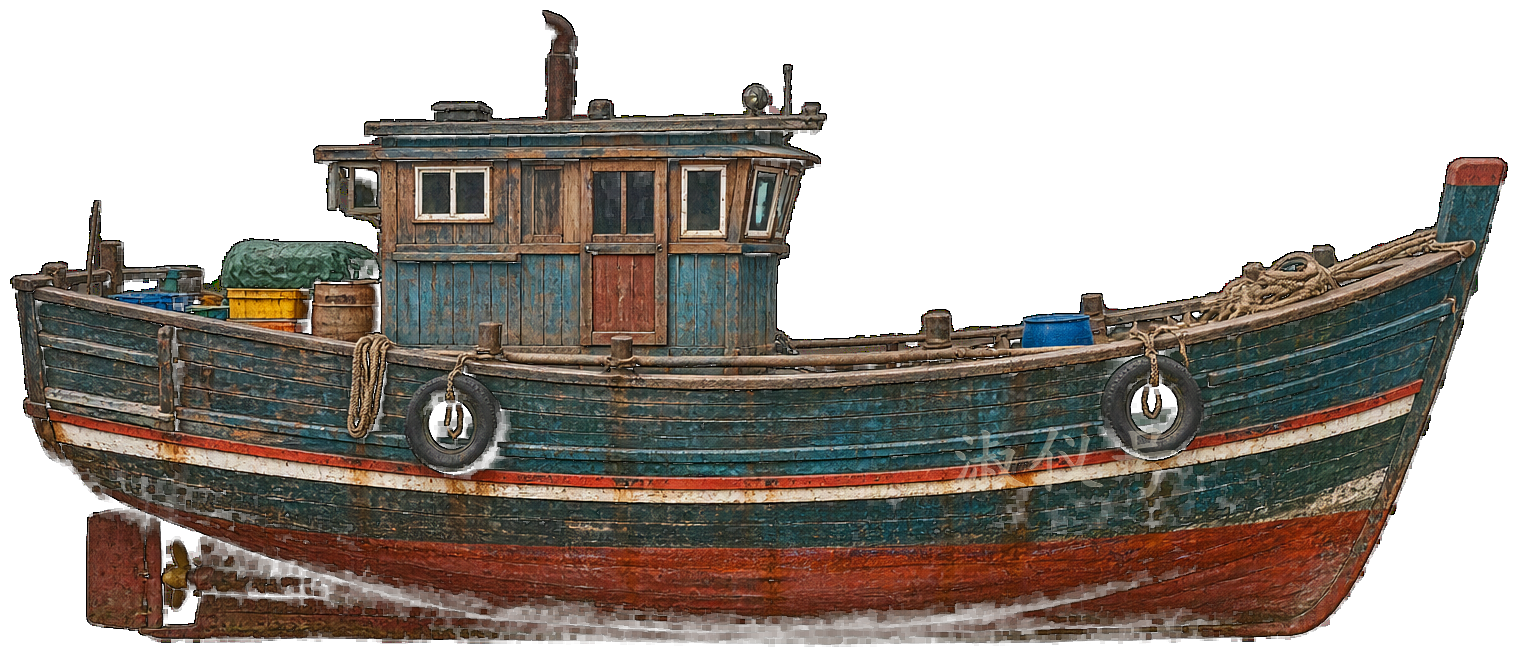
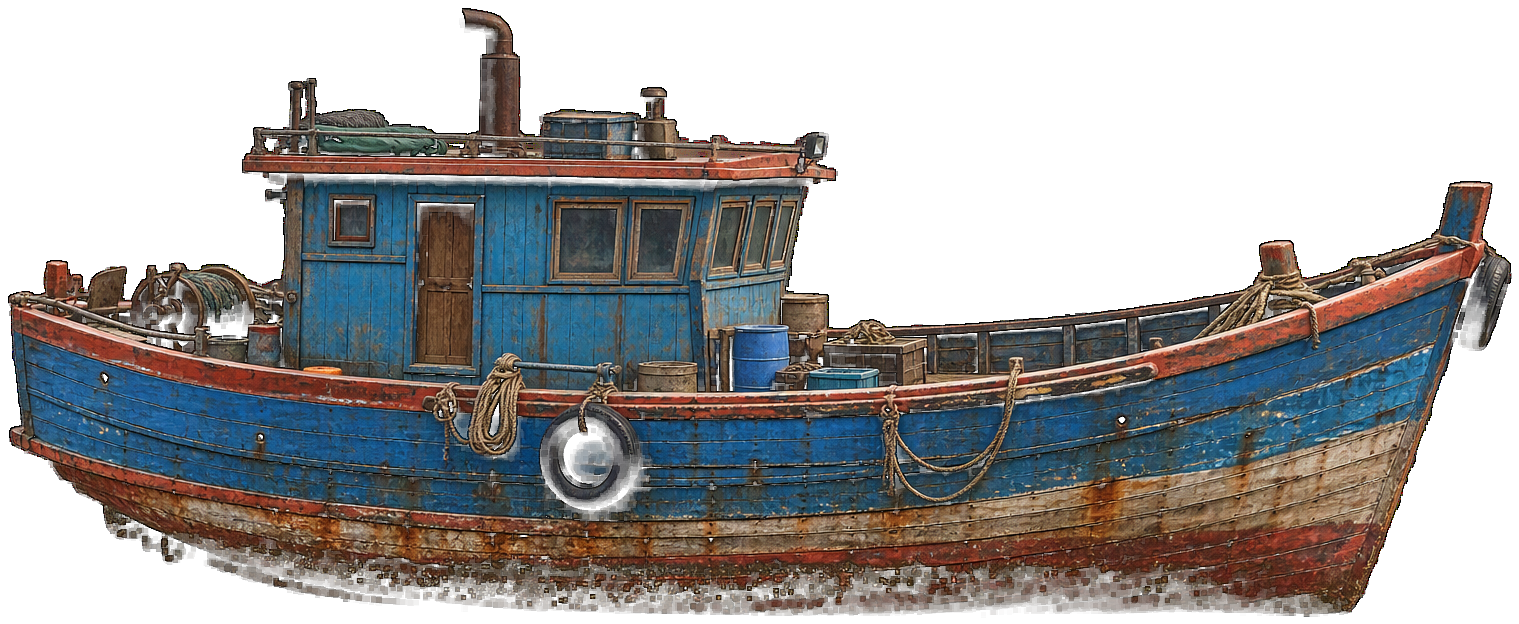
去船身题字：旧船回退原图、修复船重新生成无字版；新增人物卡与对白说话人标注；修正台风眼船滤镜

diff --git a/src/main.js b/src/main.js
@@ -8,25 +8,34 @@ const scenes = [
     [4.2, '疍家人祖祖辈辈，生在船上，死在浪里。'],
     [7.6, '这是四代女人，和一艘船的故事。'],
   ]},
+  { id: 'sc-cast', card: 1, dur: 9, subs: [], cast: [
+    ['淑 仪', '家姐 · 船以她命名'],
+    ['淑 珍', '外婆 · 疍家医生'],
+    ['月 娥', '太婆 · 淑珍的母亲'],
+    ['李 泰', '外公 · 公安干警'],
+    ['秀 胧', '疍家女 · 外婆一生的「老伴」'],
+    ['忠桦 · 志谦 · 奕得', '大姨 · 妈妈 · 三姨'],
+    ['武 岳', '我 · 讲故事的人'],
+  ]},
   { id: 'ep1', card: 1, ep: '第一集', name: '莫道辛烈皆过口，蚀骨方知痛生鳞', dur: 5, subs: [] },
   { id: 'sc-paris', dur: 16, subs: [
     [0.8, '巴黎，老佛爷，珠宝柜台后。我在本子上涂着小漫画。'],
     [5.0, '电话响了。是妈妈。'],
-    [8.6, '“外婆被那条船吃了。”', 'd'],
+    [8.6, '妈妈·志谦｜“外婆被那条船吃了。”', 'd'],
     [12.2, '飞机、高铁、大巴，我赶回了那座闷热的海滨小城。'],
   ]},
   { id: 'sc-raid', dur: 18, subs: [
     [0.8, '1944年，防空警报划过城市上空。'],
-    [4.6, '五岁的淑珍坐在树上。'],
-    [6.6, '“不怕，飞机还没来呢。”', 'd'],
-    [9.8, '父亲把一句口信压进她的小手：明晚子时落大潮，地角码头接货。'],
-    [13.8, '港口桅杆如林。一个疍家女钻出水面——'],
-    [15.8, '“跟我来！”', 'd'],
+    [4.6, '五岁的淑珍（外婆小时候）坐在树上。'],
+    [6.6, '小淑珍｜“不怕，飞机还没来呢。”', 'd'],
+    [9.8, '父亲邓公把一句口信压进她的小手：明晚子时落大潮，地角码头接货。'],
+    [13.8, '港口桅杆如林。疍家女秀胧钻出水面——'],
+    [15.8, '疍家女·秀胧｜“跟我来！”', 'd'],
   ]},
   { id: 'sc-stele', dur: 14, subs: [
     [0.8, '1945年，抗战胜利纪念碑亭落成。'],
-    [5.0, '邓公拉着七岁的淑珍，在碑亭前合影。'],
-    [9.2, '“淑珍，你也是撑起这座碑亭的一颗小石子。”', 'd'],
+    [5.0, '父亲邓公拉着七岁的淑珍，在碑亭前合影。'],
+    [9.2, '父亲·邓公｜“淑珍，你也是撑起这座碑亭的一颗小石子。”', 'd'],
   ]},
   { id: 'ep2', card: 1, ep: '第二集', name: '一纸决绝辞旧骨，愿凭辛温获重生', dur: 5, subs: [] },
   { id: 'sc-sister', dur: 22, subs: [
@@ -35,25 +44,25 @@ const scenes = [
     [9.4, '高烧、昏迷。大夫到时，一切都太迟了。'],
     [13.4, '那是淑珍第一次触到人的遗体。'],
     [16.8, '她忽然明白了家姐想当医生的原因——'],
-    [19.2, '“能救人呀。”', 'd'],
+    [19.2, '家姐·淑仪｜“能救人呀。”', 'd'],
   ]},
   { id: 'sc-boat', dur: 18, subs: [
-    [0.8, '深夜，月娥倒出樟木盒里全部的首饰。'],
+    [0.8, '深夜，母亲月娥倒出樟木盒里全部的首饰。'],
     [4.6, '一纸离婚契书，换回一艘旧木船。'],
-    [8.6, '“家姐，往后这里就是我们新家了。”', 'd'],
+    [8.6, '淑珍｜“家姐，往后这里就是我们新家了。”', 'd'],
     [12.4, '她用锅底灰调了油，在船头写下三个字——'],
     [15.2, '淑 仪 号', 'v'],
   ]},
   { id: 'sc-typhoon', dur: 16, subs: [
-    [0.8, '“鱼起水，台风嘴。”', 'd'],
+    [0.8, '疍家谚语｜“鱼起水，台风嘴。”', 'd'],
     [4.4, '贪兜沙钻鱼的淑珍，直直撞进了台风嘴。'],
     [8.4, '浪头几乎把船拍散。是大眼鸡他们把她拖回了内港。'],
     [12.6, '那一夜，母女俩相拥缩在船舱里，身下垫着潮湿的草席。'],
   ]},
   { id: 'sc-song', dur: 26, subs: [
     [0.8, '药嫲说，傍晚上甲板唱的那支歌，叫「叹家姐」。'],
-    [5.2, '“妹仔多是家姐带大的，同睡一舱，同补一网。”', 'd'],
-    [10.0, '“家姐一旦出嫁、被卖、落海、病死……妹仔也就成了家姐。”', 'd'],
+    [5.2, '药嫲｜“妹仔多是家姐带大的，同睡一舱，同补一网。”', 'd'],
+    [10.0, '药嫲｜“家姐一旦出嫁、被卖、落海、病死……妹仔也就成了家姐。”', 'd'],
     [14.6, '一尾青丝两处分，姐先跌落暗潮深。', 'v'],
     [19.4, '莫怪阿妹泪眼涩，哭姐即是哭自身。', 'v'],
   ]},
@@ -61,14 +70,14 @@ const scenes = [
   { id: 'sc-hospital', dur: 20, subs: [
     [0.8, '1956年，麻风病院里，淑珍重逢了当年被指婚卖掉的秀胧。'],
     [5.4, '一锅海榄树皮煮的药水，拔出了病人疮底的腐毒。'],
-    [10.0, '石灰警戒线那头，李泰抛来医书和鱼干。'],
-    [14.6, '“原想着能常碰面，谁知只能隔着石灰粉当牛郎织女。”', 'd'],
+    [10.0, '石灰警戒线那头，公安干警李泰抛来医书和鱼干。'],
+    [14.6, '李泰｜“原想着能常碰面，谁知只能隔着石灰粉当牛郎织女。”', 'd'],
   ]},
   { id: 'ep4', card: 1, ep: '第四集', name: '以苦坚阴心相印，稚女盲行搅暗涡', dur: 5, subs: [] },
   { id: 'sc-wedding', dur: 16, subs: [
     [0.8, '一纸结婚批准报告折成纸飞机，落在退潮的滩涂上。'],
     [5.0, '疍家水上婚礼。淑仪号挂了红，唱起了叹家姐。'],
-    [9.4, '“你要是不后悔——就再捞我一次。”', 'd'],
+    [9.4, '李泰｜“你要是不后悔——就再捞我一次。”', 'd'],
     [13.0, '这句话，外婆记了一辈子，也捞了一辈子。'],
   ]},
   { id: 'ep5', card: 1, ep: '第五集', name: '酸收固脱争生死，万顷狂澜不渡人', dur: 5, subs: [] },
@@ -82,9 +91,9 @@ const scenes = [
   { id: 'ep6', card: 1, ep: '第六集', name: '酸甘化阴滋寸草，双及微茫念故魂', dur: 5, subs: [] },
   { id: 'sc-1977', dur: 16, subs: [
     [0.8, '1977年，恢复高考。'],
-    [4.8, '母女俩同进考场，一盏灯熬了两代人。'],
+    [4.8, '外婆和大女儿忠桦同进考场，一盏灯熬了两代人。'],
     [9.4, '忠桦考上省城；淑珍从医士，考成了医师。'],
-    [12.6, '“我只想她们手里，都握着实打实的本事。”', 'd'],
+    [12.6, '淑珍｜“我只想她们手里，都握着实打实的本事。”', 'd'],
   ]},
   { id: 'ep7', card: 1, ep: '第七集', name: '暗绾双丝葺旧艇，甘缓培元笃始生', dur: 5, subs: [] },
   { id: 'sc-repair', dur: 16, subs: [
@@ -95,7 +104,7 @@ const scenes = [
   ]},
   { id: 'ep8', card: 1, ep: '第八集', name: '天风一遇姤成契，甘润回潮久相逢', dur: 5, subs: [] },
   { id: 'sc-reunion', dur: 16, subs: [
-    [0.8, '九十年代中，秀胧从美国回来了。'],
+    [0.8, '九十年代中，秀胧奶奶从美国回来了。'],
     [5.0, '当年出发的那片滩涂，早已埋在水泥堤坝底下。'],
     [9.6, '直到她看见码头边那艘新修整的淑仪号——'],
     [12.6, '眼睛才重新亮了起来。'],
@@ -103,19 +112,19 @@ const scenes = [
   { id: 'ep9', card: 1, ep: '第九集', name: '咸走重澜化沉疴，契归劫后调船头', dur: 5, subs: [] },
   { id: 'sc-1993', dur: 14, subs: [
     [0.8, '1993年，忠桦欠债十一万五。'],
-    [4.6, '“只要我不死，就把钱赚回来。”', 'd'],
-    [8.8, '老妈没说话，拿着淑仪号的船契去了信用社。'],
+    [4.6, '大姨·忠桦｜“只要我不死，就把钱赚回来。”', 'd'],
+    [8.8, '外婆没说话，拿着淑仪号的船契去了信用社。'],
   ]},
   { id: 'sc-1997', dur: 14, subs: [
-    [0.8, '1997年7月1日夜，李泰穿着旧军装，看完了香港回归直播。'],
+    [0.8, '1997年7月1日夜，外公李泰穿着旧军装，看完了香港回归直播。'],
     [6.2, '一周后，他在家中辞世。'],
     [9.8, '淑珍没有哭，只是常常放空。'],
   ]},
   { id: 'sc-1998', dur: 16, subs: [
     [0.8, '1998年，除夕。'],
-    [3.8, '“今天，十一万五——彻底结清！”', 'd'],
+    [3.8, '大姨·忠桦｜“今天，十一万五——彻底结清！”', 'd'],
     [8.2, '欠条烧成灰。盖着红戳的船契，轻轻推回淑珍手里。'],
-    [12.2, '“这不就是你当年说的——调转船头的底气么？”', 'd'],
+    [12.2, '秀胧｜“这不就是你当年说的——调转船头的底气么？”', 'd'],
   ]},
   { id: 'ep10', card: 1, ep: '第十集', name: '咸润通溟归化境，长风自引破浪刀', dur: 5, subs: [] },
   { id: 'sc-eye', dur: 28, subs: [
@@ -123,16 +132,16 @@ const scenes = [
     [5.2, '无线电里，渔监台说已追踪到我的船——正直直朝台风去。随即断联。'],
     [10.0, '一道巨浪把我抛进了台风圈。再睁眼时，风眼里静得可怕。'],
     [11.8, '外婆坐在对面，翻着一地的老照片。'],
-    [13.2, '“再大的船，硬顶着浪头都要散架。滑进风眼里，才有活路。”', 'd'],
+    [13.2, '外婆｜“再大的船，硬顶着浪头都要散架。滑进风眼里，才有活路。”', 'd'],
     [17.4, '她把那枚宝螺鲸鱼，戴上了我的脖子。'],
-    [20.8, '“顺风顺水啊，武岳。”', 'd'],
+    [20.8, '外婆｜“顺风顺水啊，武岳。”', 'd'],
     [23.6, '外婆拉起我的手，放上舵轮。舵轮忽然转得动了。'],
-    [26.0, '“把船当成游走在台风肋骨间的手术刀。”', 'd'],
+    [26.0, '外婆的话｜“把船当成游走在台风肋骨间的手术刀。”', 'd'],
   ]},
   { id: 'sc-finale', dur: 26, subs: [
     [0.8, '风眼散去，我把船开回了家。后来我才知道——'],
     [5.2, '外婆手机里那个“老伴”，是大洋彼岸的秀胧。'],
-    [9.6, '“我唱支叹家姐给你听，等唱完呢，可能就到啦……”', 'd'],
+    [9.6, '我·武岳｜“我唱支叹家姐给你听，等唱完呢，可能就到啦……”', 'd'],
     [14.0, '海水连天天连水，家姐过洋探路行。', 'v'],
     [17.6, '潮退潮升皆是客，暂借他乡作故乡。', 'v'],
     [21.2, '姐啊莫怕夜色重，循着月影就归家。', 'v'],
@@ -148,9 +157,16 @@ const overlay = $('#start-overlay');
 // 集名卡 section 由 JS 生成，插到颗粒层之前
 scenes.filter(s => s.card).forEach(s => {
   const el = document.createElement('section');
-  el.className = 'scene epcard'; el.id = s.id;
-  const [l1, l2] = s.name.split('，');
-  el.innerHTML = `<div class="epno">${s.ep}</div><div class="epname"><span>${l1}</span>${l2 ? `<span>${l2}</span>` : ''}</div>`;
+  el.id = s.id;
+  if (s.cast) {
+    el.className = 'scene castcard';
+    el.innerHTML = `<div class="casttitle">人 物</div><ul class="castlist">` +
+      s.cast.map(([n, r]) => `<li><b>${n}</b>${r}</li>`).join('') + '</ul>';
+  } else {
+    el.className = 'scene epcard';
+    const [l1, l2] = s.name.split('，');
+    el.innerHTML = `<div class="epno">${s.ep}</div><div class="epname"><span>${l1}</span>${l2 ? `<span>${l2}</span>` : ''}</div>`;
+  }
   stage.insertBefore(el, stage.querySelector('.grain'));
 });
 const ICO_PLAY = '<path d="M7 4l14 8-14 8z"/>', ICO_PAUSE = '<path d="M6 4h4v16H6zM14 4h4v16h-4z"/>';
@@ -228,7 +244,8 @@ function render() {
         sub.classList.add('show');
       } else if (flag === 'd') {
         // 对白：楷体浮现于画面上方，长句在中部标点换行
-        dlg.innerHTML = dlgBreak(text);
+        const sp = text.split('｜');
+        dlg.innerHTML = sp.length === 2 ? `<span class="who">${sp[0]}</span>` + dlgBreak(sp[1]) : dlgBreak(text);
         dlg.classList.add('show');
       } else {
         // 叙述：底部宋体
@@ -293,6 +310,7 @@ const LOOPS = ['sea', 'sing_a', 'piano', 'radio60', 'radio80', 'thunder', 'tvmur
 // 时代音：radio60=五六十年代广播进行曲；radio80=八九十年代电台流行；tvmur=1997电视播报
 const SCENE_AUDIO = {
   'sc-title':    { v: { sea: .5,  sing_a: .5 } },
+  'sc-cast':     { v: { sea: .4,  sing_a: .32 } },
   'ep1':         { v: { sea: .35, sing_a: .3 } },
   'sc-paris':    { v: { sea: .12, piano: .3 }, fx: [[1.2, 'phonering', .5, 6.0]] },
   'sc-raid':     { v: { sea: .15, piano: .22 }, fx: [[1.0, 'siren2', .8]] },

diff --git a/index.html b/index.html
@@ -122,7 +122,7 @@ button{cursor:pointer;font-family:inherit}
 #sc-song .boatpic{width:52%;left:24%;bottom:11%}
 #sc-wedding .boatpic{width:48%;left:26%;bottom:13%}
 #sc-eye .boatpic{width:44%;left:28%;bottom:19%;
-  filter:brightness(.62) saturate(.55) hue-rotate(155deg) drop-shadow(0 8px 16px rgba(0,0,0,.6))}
+  filter:brightness(.68) saturate(.95) drop-shadow(0 8px 16px rgba(0,0,0,.6))}
 #sc-finale .boatpic{width:42%;left:29%;bottom:19%;filter:brightness(.6) sepia(.2)}
 /* ===== 对白字幕：楷体浮现于画面 ===== */
 #dialogue{position:absolute;left:50%;top:24%;transform:translate(-50%,0);z-index:30;
@@ -530,6 +530,24 @@ button{cursor:pointer;font-family:inherit}
 .scene.active .epno{animation:fadeUp 2.4s .3s ease both}
 .scene.active .epname{animation:fadeUp 2.8s .9s ease both}
 
+/* ===== 人物卡 ===== */
+.castcard{display:flex;flex-direction:column;align-items:center;justify-content:center;gap:4%;
+  background:radial-gradient(ellipse at 50% 40%,oklch(0.2 0.045 228),oklch(0.11 0.025 235) 78%)}
+.castcard::after{display:none}
+.casttitle{font-family:"Kaiti SC","STKaiti","KaiTi",serif;font-size:clamp(12px,1.5vw,18px);
+  letter-spacing:.6em;padding-left:.6em;color:var(--amber);opacity:0}
+.castlist{list-style:none;display:flex;flex-direction:column;gap:1.6vh;opacity:0}
+.castlist li{display:flex;align-items:baseline;font-size:clamp(11px,1.35vw,16px);
+  color:var(--paper-dim);letter-spacing:.1em;white-space:nowrap}
+.castlist b{font-family:"Kaiti SC","STKaiti","KaiTi",serif;font-weight:400;color:var(--paper);
+  font-size:1.18em;letter-spacing:.22em;min-width:6.4em;text-align:right;margin-right:1em;position:relative}
+.castlist b::after{content:'';position:absolute;right:-.6em;top:58%;width:.4em;height:1px;background:var(--amber);opacity:.7}
+.scene.active .casttitle{animation:fadeUp 2.2s .2s ease both}
+.scene.active .castlist{animation:fadeUp 2.8s .8s ease both}
+/* 对白说话人小签 */
+#dialogue .who{display:block;font-size:.6em;letter-spacing:.34em;padding-left:.34em;
+  color:var(--amber);margin-bottom:.6em;font-weight:400;text-shadow:0 1px 10px rgba(0,0,0,.95),0 0 3px rgba(0,0,0,.9)}
+
 /* ===== 写实道具贴图（与照片背景同风格） ===== */
 .propimg,.whaleimg,.wheelimg,.phoneimg{position:absolute;z-index:3;pointer-events:none}
 .propimg{filter:drop-shadow(0 14px 30px rgba(0,0,0,.6));opacity:0}
@@ -566,7 +584,7 @@ button{cursor:pointer;font-family:inherit}
 /* 自检模式：直接呈现动画终态（仅 ?auto=1 截图用） */
 html.shot *{animation:none!important;transition:none!important}
 html.shot .cc,html.shot .epno,html.shot .epname,html.shot .propimg,html.shot .photo-frame,
-html.shot .endcard,html.shot .bigtitle h1,html.shot .bigtitle p{opacity:1!important}
+html.shot .endcard,html.shot .bigtitle h1,html.shot .bigtitle p,html.shot .casttitle,html.shot .castlist{opacity:1!important}
 html.shot .photo-frame{transform:translate(-50%,-50%) rotate(-2deg)}
 html.shot .whaleimg{opacity:1}
 html.shot .scene.active .bgimg{opacity:1}
